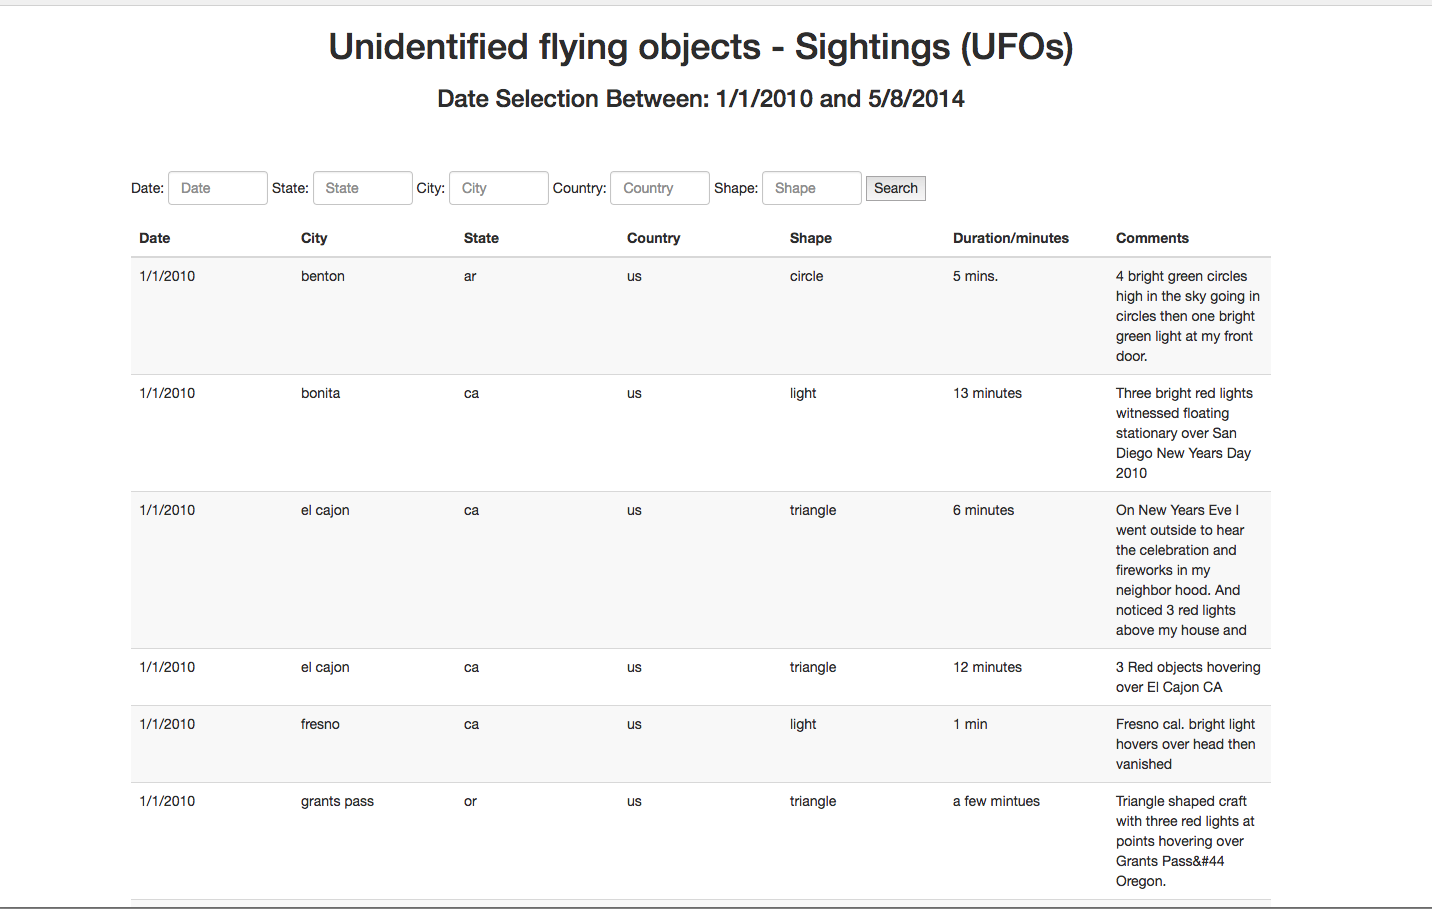
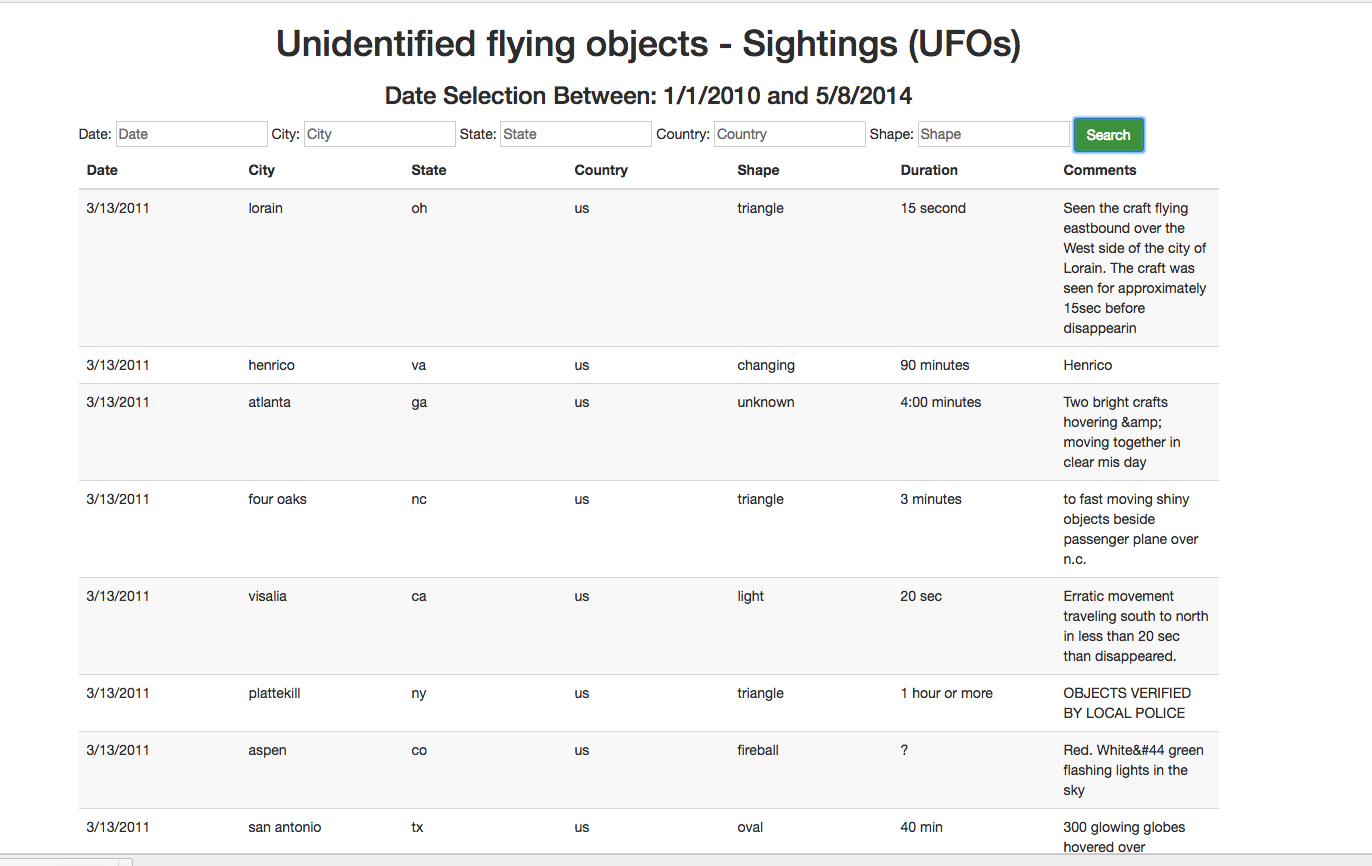
did all my debugging to get the seaches render page correct

diff --git a/index.js b/index.js
@@ -1,134 +1,117 @@
-// Get references to the tbody element, input field and button
-var $tbody = document.querySelector('tbody');
- 
+// Getting references
+var $tbody = document.querySelector("#table-body");
+var $dateInput = document.querySelector("#date-input");
+var $cityInput = document.querySelector("#city-input");
+var $stateInput = document.querySelector("#state-input");
+var $countryInput = document.querySelector("#country-input");
+var $shapeInput = document.querySelector("#shape-input");
+var $submitButton = document.querySelector("#submit");
 
-var $searchBtn = document.querySelector('#search_button');
-
-// Add an event listener to the searchButton, call handleSearchButtonClick when clicked
-$searchBtn.addEventListener('click', handleSearchButtonClick);
-//document.getElementById("myForm").addEventListener("submit", handleSearchButtonClick, true);
-
-
-// 
-// Level 1: Automatic Table and Date Search
-// Create a basic HTML web page.
-
-// Using the ufo dataset provided in the form of a JavaScript object, 
-//write code that appends a table to your web page and then adds new rows of data for each UFO sighting.
-
-// Make sure you have a column for date/time, city, state, country, shape, and comment at the very least.
-// Add an input tag to your HTML document and write JavaScript code that will search through the 
-// date/time column to find rows that match user input.
-
-
-// Set filteredSightings to dataSet initially
-// dataSet comes from the data.js file
+// Filtered list
 var filteredSightings = dataSet;
 
-// renderTable renders the filtereSightings to the tbody
+// Set starting index and results per page
+var startingIndex = 0;
+var resultsPerPage = 1000;
+
+// Rendering table
+renderTable();
+
+// Function to render table
 function renderTable() {
 
+    // Set the value of ending index
+    var endingIndex = startingIndex + resultsPerPage;
 
-  // First clear the table body, Then iterate over all the records 
-  // in filteredSightings and retrieve all the fields within each record to display as a 
-  // table (by adding rows to the table body)
-  $tbody.innerHTML = '';
-
-  for (var i = 0; i < filteredSightings.length; i++) {
-    // Get get the current record object and its fields
-    var record = filteredSightings[i];
-    var fields = Object.keys(record);
-    // Create a new row in the tbody, set the index to be i + startingIndex
-    var $row = $tbody.insertRow(i);
-    for (var j = 0; j < fields.length; j++) {
-      // For every field in the record object, create a new cell at set its inner text to be the 
-      //current value at the current record's field
-      var field = fields[j];
-      var $cell = $row.insertCell(j);
-      $cell.innerText = record[field];
-    }
-  }
-}
-
-// The function hangleSearchButtonClick is the building a new table
-// of filteredSightings array by filtering the entire dataSet
-// using a callback filter.
-
-function handleSearchButtonClick() {
-  // Retrieve the value of various fields in the search form for processing
-  // by the filter callback function
-  event.preventDefault();
-
-  var $dateInput = document.querySelector('#date');
-  var $stateInput = document.querySelector('#state');
-  var $countryInput = document.querySelector('#country');
-  var $cityInput = document.querySelector('#city');
-  var $shapeInput = document.querySelector('#shape');
-
-
-  // Set filteredSightings to an array of all signting whose "state" matches the filter
-  filteredSightings = dataSet.filter(function(sighting) {
-
-    //You can just check if the variable has a truthy value or not. That means if(filterState) {}
-    // if( value ) {}
-    // will evaluate to true if value is not: 
-    dateFound = cityFound = stateFound = countryFound = shapeFound = false;
-    if ($stateInput) {
-       var recordState = sighting.state.trim().toLowerCase();
-       var filterState = $stateInput.value.trim().toLowerCase(); 
-       if (recordState === filterState ) {
-          stateFound = true;
-       }
-    }
-
-    if ($dateInput) {
-      var recordDate = sighting.datetime.trim();
-      var filterDate = $dateInput.value.trim(); 
-      if (recordDate === filterDate ) {
-         dateFound = true;
-      }
-    }
-
-    if ($shapeInput) {
-      var recordShape = sighting.shape.trim().toLowerCase();
-      var filterShape = $shapeInput.value.trim().toLowerCase(); 
-      if (recordShape === filterShape ) {
-         shapeFound = true;
-      }
-    }
-
-    if ($countryInput) {
-      var recordCountry = sighting.country.trim().toLowerCase();
-      var filterCountry = $countryInput.value.trim().toLowerCase(); 
-      if (recordCountry === filterCountry ) {
-        countryFound = true;
-      }
-    }
-
-    if ($cityInput) {
-      var recordCity = sighting.city.trim().toLowerCase();
-      var filterCity = $cityInput.value.trim().toLowerCase(); 
-      if (recordCity === filterCity ) {
-        cityFound = true;
-      }
-    }
+    // Looping through data set
+    for (let i = 0; i < filteredSightings.length; i++) {
     
-    if ( dateFound || cityFound || stateFound || countryFound || shapeFound ) {
-         return true
-    }
-    
-    // if ( dateFound && cityFound && stateFound && countryFound && shapeFound ){
-    //     return true
-    // } else { 
-    //     return false
-    // } 
+        // Insert a row
+        let $row = $tbody.insertRow(i);
 
-  });
-  // Now that the entire data set has been filtered and filteredSightings array
-  //   has been updated based on user input, render the new result set. 
-  renderTable();
-} // end of handleSearchButtonClick() function
-renderTable(); //This executed every time the page is reloaded.
+        // Get current object & keys
+        let currentSighting = filteredSightings[i];
+        let fields = Object.keys(currentSighting);
 
-    
- 
+        // Insert filteredSightings
+        for(let j = 0; j < fields.length; j++) {
+            let field = fields[j];
+            let $cell = $row.insertCell(j);
+            $cell.innerText = currentSighting[field];
+        };
+    };
+};
+
+// Event listener for submit button
+$submitButton.addEventListener("click", filterInput);
+
+// Function to filter date
+function filterDate(sighting) {
+    return sighting.datetime == $dateInput.value.trim().toLowerCase();
+};
+
+// Function to filter city
+function filterCity(sighting) {
+    return sighting.city == $cityInput.value.trim().toLowerCase();
+};
+
+// Function to filter state
+function filterState(sighting) {
+    return sighting.state == $stateInput.value.trim().toLowerCase();
+};
+
+// Function to filter country
+function filterCountry(sighting) {
+    return sighting.country == $countryInput.value.trim().toLowerCase();
+};
+
+// Function to filter shape
+function filterShape(sighting) {
+    return sighting.shape == $shapeInput.value.trim().toLowerCase();
+};
+
+// Function to filter input
+function filterInput(event) {
+
+    // Prevent default
+    event.preventDefault();
+
+    // Reseting data set each time button is clicked
+    filteredSightings = dataSet;
+
+    // Filters
+    if ($dateInput.value) {
+        filteredSightings = filteredSightings.filter(filterDate);
+    };
+
+    if ($cityInput.value) {
+        filteredSightings = filteredSightings.filter(filterCity);
+    };
+
+    if ($stateInput.value) {
+        filteredSightings = filteredSightings.filter(filterState);
+    };
+
+    if ($countryInput.value) {
+        filteredSightings = filteredSightings.filter(filterCountry);
+    };
+
+    if ($shapeInput.value) {
+        filteredSightings = filteredSightings.filter(filterShape);
+    };
+
+    if (!$dateInput && !$cityInput && !$stateInput && !$countryInput && !$shapeInput) {
+        filteredSightings = dataSet;
+    };
+
+    // Reset inputs
+    $dateInput.value = "";
+    $cityInput.value = "";
+    $stateInput.value = "";
+    $countryInput.value = "";
+    $shapeInput.value = "";
+
+    // Re-render table
+    $tbody.innerHTML = "";
+    renderTable();
+};

diff --git a/index.html b/index.html
@@ -1,53 +1,55 @@
 <!DOCTYPE html>
 <html lang="en">
-<head>
-  <meta charset="UTF-8">
-  <meta name="viewport" content="width=device-width, initial-scale=1.0">
-  <meta http-equiv="X-UA-Compatible" content="ie=edge">
-  <title> Sightings (UFOs)</title>
-  <h1><center>Unidentified flying objects - Sightings (UFOs)</center></h1>
-  <h3><center>Date Selection Between: 1/1/2010 and 5/8/2014 </center></h3>
-  <link rel="stylesheet" href="https://cdnjs.cloudflare.com/ajax/libs/twitter-bootstrap/3.3.7/css/bootstrap.min.css" />
-  <link rel="stylesheet" href="styles.css">
-</head>
-
-
-<body>
-  <div class="container">
-    <div class="row">
-      <div class="col-md-12">
-        <div class="form-group">
-          Date: <input type="text" class="form-control" id="date" placeholder="Date">
-          State: <input type="text" class="form-control" id="state" placeholder="State">
-          City: <input type="text" class="form-control" id="city" placeholder="City">
-          Country: <input type="text" class="form-control" id="country" placeholder="Country">
-          Shape: <input type="text" class="form-control" id="shape" placeholder="Shape">
-          <input type="submit" id="search_button" value="Search">
+    <head>
+        <meta charset="UTF-8">
+        <meta name="viewport" content="width=device-width, initial-scale=1.0">
+        <meta http-equiv="X-UA-Compatible" content="ie=edge">
+        <title>Sightings (UFOs)</title>
+        <h1><center>Unidentified flying objects - Sightings (UFOs)</center></h1>
+        <h3><center>Date Selection Between: 1/1/2010 and 5/8/2014 </center></h3>
+        <script src="https://code.jquery.com/jquery-3.2.1.js" integrity="sha256-DZAnKJ/6XZ9si04Hgrsxu/8s717jcIzLy3oi35EouyE=" crossorigin="anonymous"></script>
+        <script src="https://maxcdn.bootstrapcdn.com/bootstrap/3.3.7/js/bootstrap.min.js" integrity="sha384-Tc5IQib027qvyjSMfHjOMaLkfuWVxZxUPnCJA7l2mCWNIpG9mGCD8wGNIcPD7Txa" crossorigin="anonymous"></script>
+        <link href="https://maxcdn.bootstrapcdn.com/bootstrap/3.3.7/css/bootstrap.min.css" rel="stylesheet" integrity="sha384-BVYiiSIFeK1dGmJRAkycuHAHRg32OmUcww7on3RYdg4Va+PmSTsz/K68vbdEjh4u" crossorigin="anonymous">
+        <link rel="stylesheet" href="https://cdn.datatables.net/1.10.16/css/jquery.dataTables.min.css">
+        <link rel="stylesheet" href="styles.css">
+    </head>
+    <body>
+        <div class="container">
+         <div class="row">
+            <div class="col-md-12">
+                <form action="/">
+                    Date:    <input type="text" id="date-input" placeholder="Date">
+                    City:    <input type="text" id="city-input" placeholder="City">
+                    State:   <input type="text" id="state-input" placeholder="State">
+                    Country: <input type="text" id="country-input" placeholder="Country">
+                    Shape:   <input type="text" id="shape-input" placeholder="Shape">
+                    <button id="submit" class="btn btn-success btn-large right">Search</button>
+                </form>
+            </div>
+        </div>           
+        <div class="row">
+            <div class="col-md-12">
+                <!--div class="table-responsive"-->
+                    <table class="table table-striped" id="dataTable" >
+                        <thead>
+                            <tr>
+                                <th>Date</th>
+                                <th>City</th>
+                                <th>State</th>
+                                <th>Country</th>
+                                <th>Shape</th>
+                                <th>Duration</th>
+                                <th>Comments</th>
+                            </tr>
+                        </thead>
+                        <tbody id="table-body"></tbody>
+                    </table>
+                <!--/div-->
+                </div>
+            </div>
         </div>
-      </div>
-    </div>
-    <div class="row">
-      <div class="col-md-12">
-        <table class="table table-striped">
-          <thead>
-            <tr>
-              <th>Date</th>
-              <th>City</th>
-              <th>State</th>
-              <th>Country</th>
-              <th>Shape</th>
-              <th>Duration/minutes</th>
-              <th>Comments</th>
-            </tr>
-          </thead>
-          <tbody>
-          </tbody>
-        </table>
-      </div>
-    </div>
-  </div>
-  <script src="data.js" type="text/javascript"></script>
-  <script src="index.js" type="text/javascript"></script>
-</body>
-
+             <script src="data.js" type="text/javascript"></script>
+             <script src="index.js" type="text/javascript"></script>
+    </body>
 </html>
+ 
